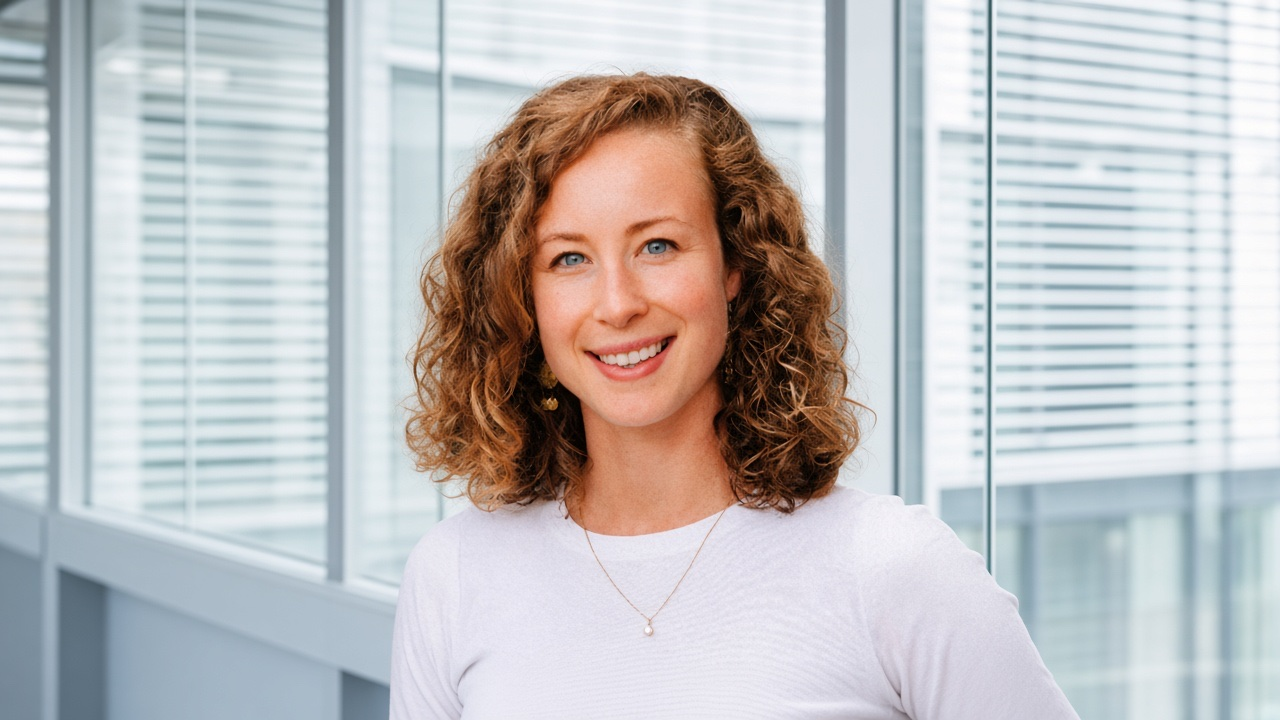
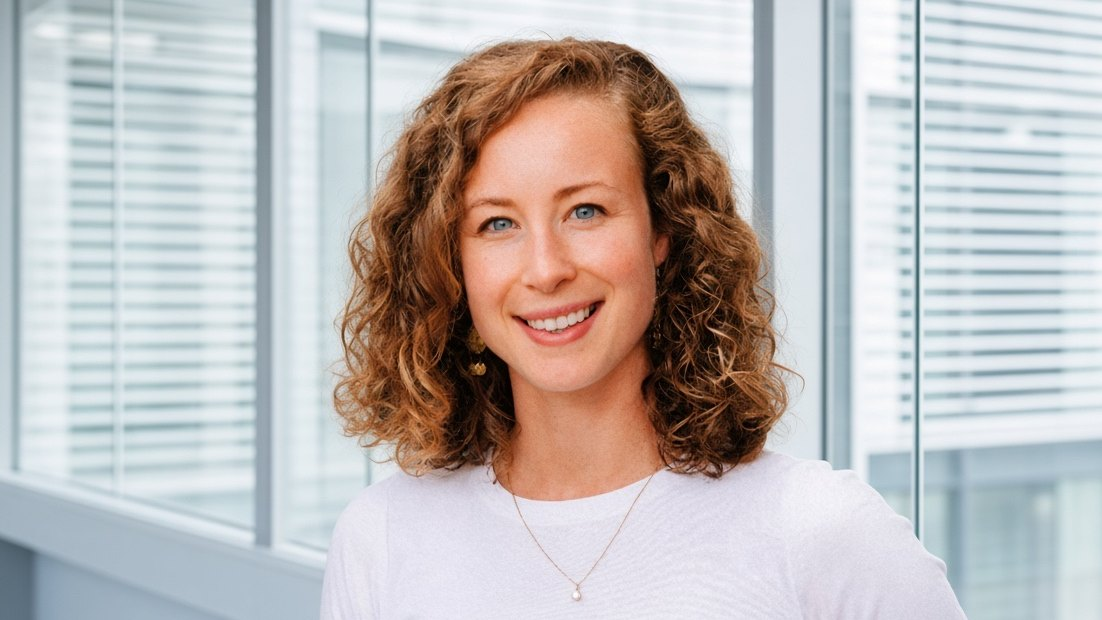
Research Development polish: Ghibli team portraits, aligned stage cards, full arms nav
- Use GhibliPortrait (with seasonal variants) on the RD team cards
- Rebuild Gabe and Reid portraits from originals and match framing across all three
- Align stage card headers with subgrid
- Show all five arms in the cross-nav, with the current arm grayed out

diff --git a/src/routes/services.research-development.tsx b/src/routes/services.research-development.tsx
@@ -1,8 +1,12 @@
 import { createFileRoute, Link } from "@tanstack/react-router";
 import gabeImg from "@/assets/people/gabe-murphy.jpg";
+import gabeHoverImg from "@/assets/people/hover/gabe-murphy-hover.jpg";
 import reidImg from "@/assets/people/reid-bolus.jpg";
+import reidHoverImg from "@/assets/people/hover/reid-bolus-hover.jpg";
 import lindsayImg from "@/assets/people/lindsay-breithaupt.jpg";
+import lindsayHoverImg from "@/assets/people/hover/lindsay-breithaupt-hover.jpg";
 import { SiteShell, Breadcrumb, CTA, SunburstLogo } from "@/components/site/chrome";
+import { GhibliPortrait } from "@/components/site/ghibli-portrait";
 import { armName } from "@/components/site/arms";
 import {
   ArmEyebrow,
@@ -339,30 +343,28 @@ function Stages() {
           {stages.map((s) => (
             <li
               key={s.n}
-              className="group rounded-3xl border border-border bg-card overflow-hidden grid grid-rows-[auto_1fr] hover:shadow-lift transition"
+              className="group rounded-3xl border border-border bg-card overflow-hidden grid grid-rows-subgrid row-span-3 gap-0 hover:shadow-lift transition"
             >
-              <div className="relative bg-ink text-white p-7 overflow-hidden">
+              <div className="relative bg-ink text-white p-7 overflow-hidden grid grid-rows-subgrid row-span-2 gap-y-4">
                 <div
                   aria-hidden
                   className="absolute -top-16 -left-16 w-56 h-56 rounded-full blur-3xl opacity-40 group-hover:opacity-55 transition-opacity duration-500"
                   style={{ background: s.c }}
                 />
-                <div className="relative">
-                  <div className="flex items-baseline justify-between gap-3">
-                    <span
-                      className="font-display text-3xl tabular-nums"
-                      style={{ color: s.c }}
-                    >
-                      {s.n}
-                    </span>
-                    <span className="text-[10px] uppercase tracking-[0.2em] text-white/50 text-right">
-                      {s.when}
-                    </span>
-                  </div>
-                  <h3 className="mt-4 font-display text-2xl text-white leading-tight">
-                    {s.name}
-                  </h3>
+                <div className="relative flex items-baseline justify-between gap-3">
+                  <span
+                    className="font-display text-3xl tabular-nums"
+                    style={{ color: s.c }}
+                  >
+                    {s.n}
+                  </span>
+                  <span className="text-[10px] uppercase tracking-[0.2em] text-white/50 text-right">
+                    {s.when}
+                  </span>
                 </div>
+                <h3 className="relative font-display text-2xl text-white leading-tight">
+                  {s.name}
+                </h3>
               </div>
               <div className="p-7 flex flex-col">
                 <p className="text-muted-foreground leading-relaxed text-[15px]">
@@ -566,21 +568,27 @@ function Partners() {
 function Team() {
   const team = [
     {
-      name: "Gabe Murphy, PhD",
+      name: "Gabe Murphy",
+      credential: "PhD",
       role: "Senior Research Development Strategist",
       img: gabeImg,
+      imgHover: gabeHoverImg,
       bio: "First hire on the arm. Leads large-grant strategy and the growing team.",
     },
     {
-      name: "Reid Bolus, PhD",
+      name: "Reid Bolus",
+      credential: "PhD",
       role: "Research Development Strategist",
       img: reidImg,
+      imgHover: reidHoverImg,
       bio: "Embedded across the Diabetes Center and the RPR program.",
     },
     {
-      name: "Lindsay Breithaupt, MPH",
+      name: "Lindsay Breithaupt",
+      credential: "MPH",
       role: "Research Development Strategist",
       img: lindsayImg,
+      imgHover: lindsayHoverImg,
       bio: "Helps investigators shape the scientific story and craft competitive proposals across funders.",
     },
     {
@@ -612,21 +620,24 @@ function Team() {
               key={p.name}
               className="rounded-3xl bg-card border border-border overflow-hidden hover:shadow-lift transition group"
             >
-              <div className="aspect-[4/5] bg-secondary relative overflow-hidden">
-                {p.img ? (
-                  <img
-                    src={p.img}
-                    alt={p.name}
-                    className="w-full h-full object-cover group-hover:scale-105 transition duration-500"
-                  />
-                ) : (
+              {p.img && p.imgHover ? (
+                <GhibliPortrait
+                  name={p.name}
+                  photo={p.img}
+                  photoHover={p.imgHover}
+                  className="aspect-[4/5] rounded-none bg-secondary"
+                />
+              ) : (
+                <div className="aspect-[4/5] bg-secondary relative overflow-hidden">
                   <div className="w-full h-full bg-gradient-sunburst opacity-20 flex items-center justify-center">
                     <SunburstLogo className="w-24 h-24 opacity-60" />
                   </div>
-                )}
-              </div>
+                </div>
+              )}
               <div className="p-6">
-                <h3 className="text-xl text-ink">{p.name}</h3>
+                <h3 className="text-xl text-ink">
+                  {p.credential ? `${p.name}, ${p.credential}` : p.name}
+                </h3>
                 <div className="text-sm mt-1" style={{ color: C }}>
                   {p.role}
                 </div>

diff --git a/src/components/site/service-family.tsx b/src/components/site/service-family.tsx
@@ -41,7 +41,6 @@ export function ArmEyebrow({
 
 /** Sibling service navigator. Lives just above the page CTA. */
 export function ServiceCrossNav({ currentPath }: { currentPath: string }) {
-  const others = SERVICES.filter((s) => s.to !== currentPath);
   return (
     <section className="py-20 bg-cream border-t border-border">
       <div className="max-w-7xl mx-auto px-6">
@@ -60,8 +59,29 @@ export function ServiceCrossNav({ currentPath }: { currentPath: string }) {
           </p>
         </div>
         <div className="grid md:grid-cols-2 lg:grid-cols-4 xl:grid-cols-5 gap-4">
-          {others.map((s) => {
+          {SERVICES.map((s) => {
             const arm = ARM_BY_PATH[s.to] ?? "··";
+            if (s.to === currentPath) {
+              return (
+                <div
+                  key={s.to}
+                  aria-current="page"
+                  className="rounded-3xl border border-dashed border-ink/20 p-7 cursor-default select-none"
+                >
+                  <div className="flex items-center justify-between text-[11px] uppercase tracking-[0.24em] text-muted-foreground/60">
+                    <span className="font-display text-base normal-case tracking-normal">{arm}</span>
+                    <span className="w-1.5 h-1.5 rounded-full bg-ink/20" />
+                  </div>
+                  <h3 className="mt-6 font-display text-2xl text-ink/35 leading-tight">
+                    {s.name}
+                  </h3>
+                  <p className="mt-3 text-sm text-muted-foreground/60">{s.desc}</p>
+                  <div className="mt-6 inline-flex items-center gap-1.5 rounded-full bg-ink/5 px-2.5 py-1 text-[11px] uppercase tracking-[0.18em] font-medium text-muted-foreground">
+                    You are here
+                  </div>
+                </div>
+              );
+            }
             return (
               <Link
                 key={s.to}

diff --git a/src/components/site/ghibli-portrait.tsx b/src/components/site/ghibli-portrait.tsx
@@ -1,4 +1,5 @@
 import { useEffect, useState } from "react";
+import { cn } from "@/lib/utils";
 import {
   DEFAULT_BADGE,
   activeSeason,
@@ -10,9 +11,10 @@ type GhibliPortraitProps = {
   name: string;
   photo: string;
   photoHover: string;
+  className?: string;
 };
 
-export function GhibliPortrait({ name, photo, photoHover }: GhibliPortraitProps) {
+export function GhibliPortrait({ name, photo, photoHover, className }: GhibliPortraitProps) {
   const [active, setActive] = useState(false);
   // Resolved on the client so the server's timezone can't cause a hydration mismatch.
   const [season, setSeason] = useState<GhibliSeason>();
@@ -22,7 +24,7 @@ export function GhibliPortrait({ name, photo, photoHover }: GhibliPortraitProps)
 
   return (
     <div
-      className="relative w-full aspect-square rounded-2xl overflow-hidden bg-cream"
+      className={cn("relative w-full aspect-square rounded-2xl overflow-hidden bg-cream", className)}
       onPointerEnter={() => setActive(true)}
       onPointerLeave={() => setActive(false)}
       onFocus={() => setActive(true)}
